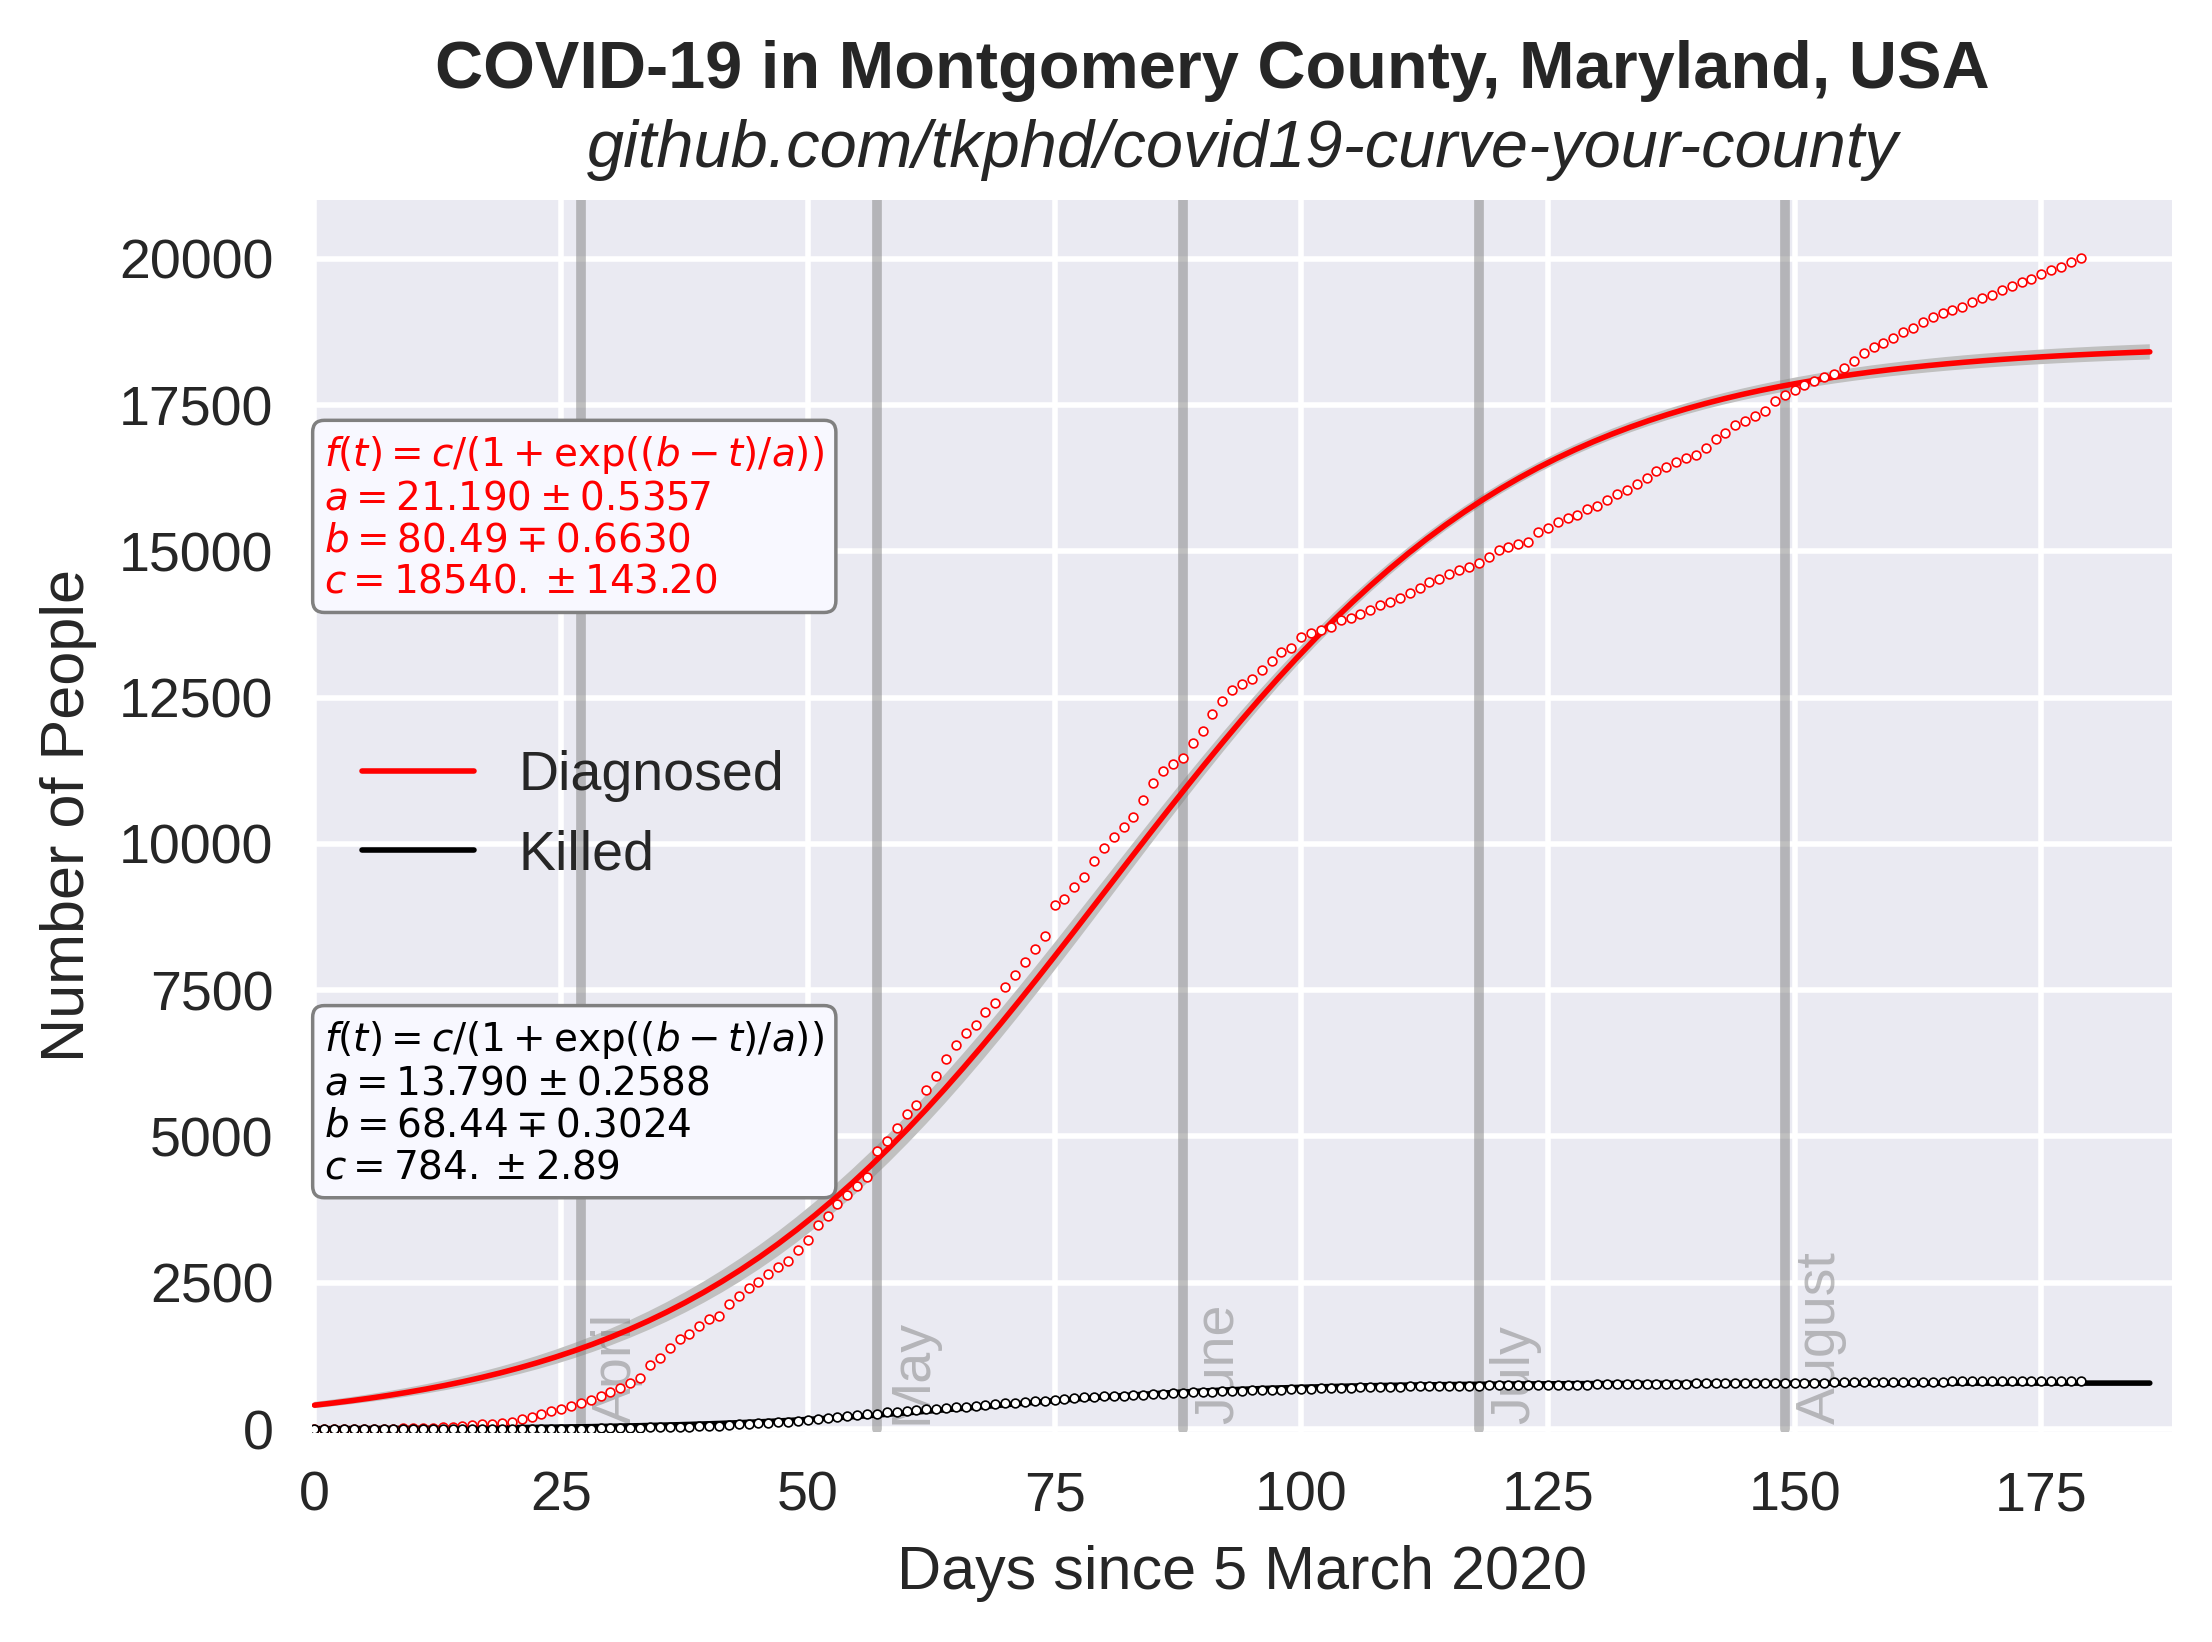
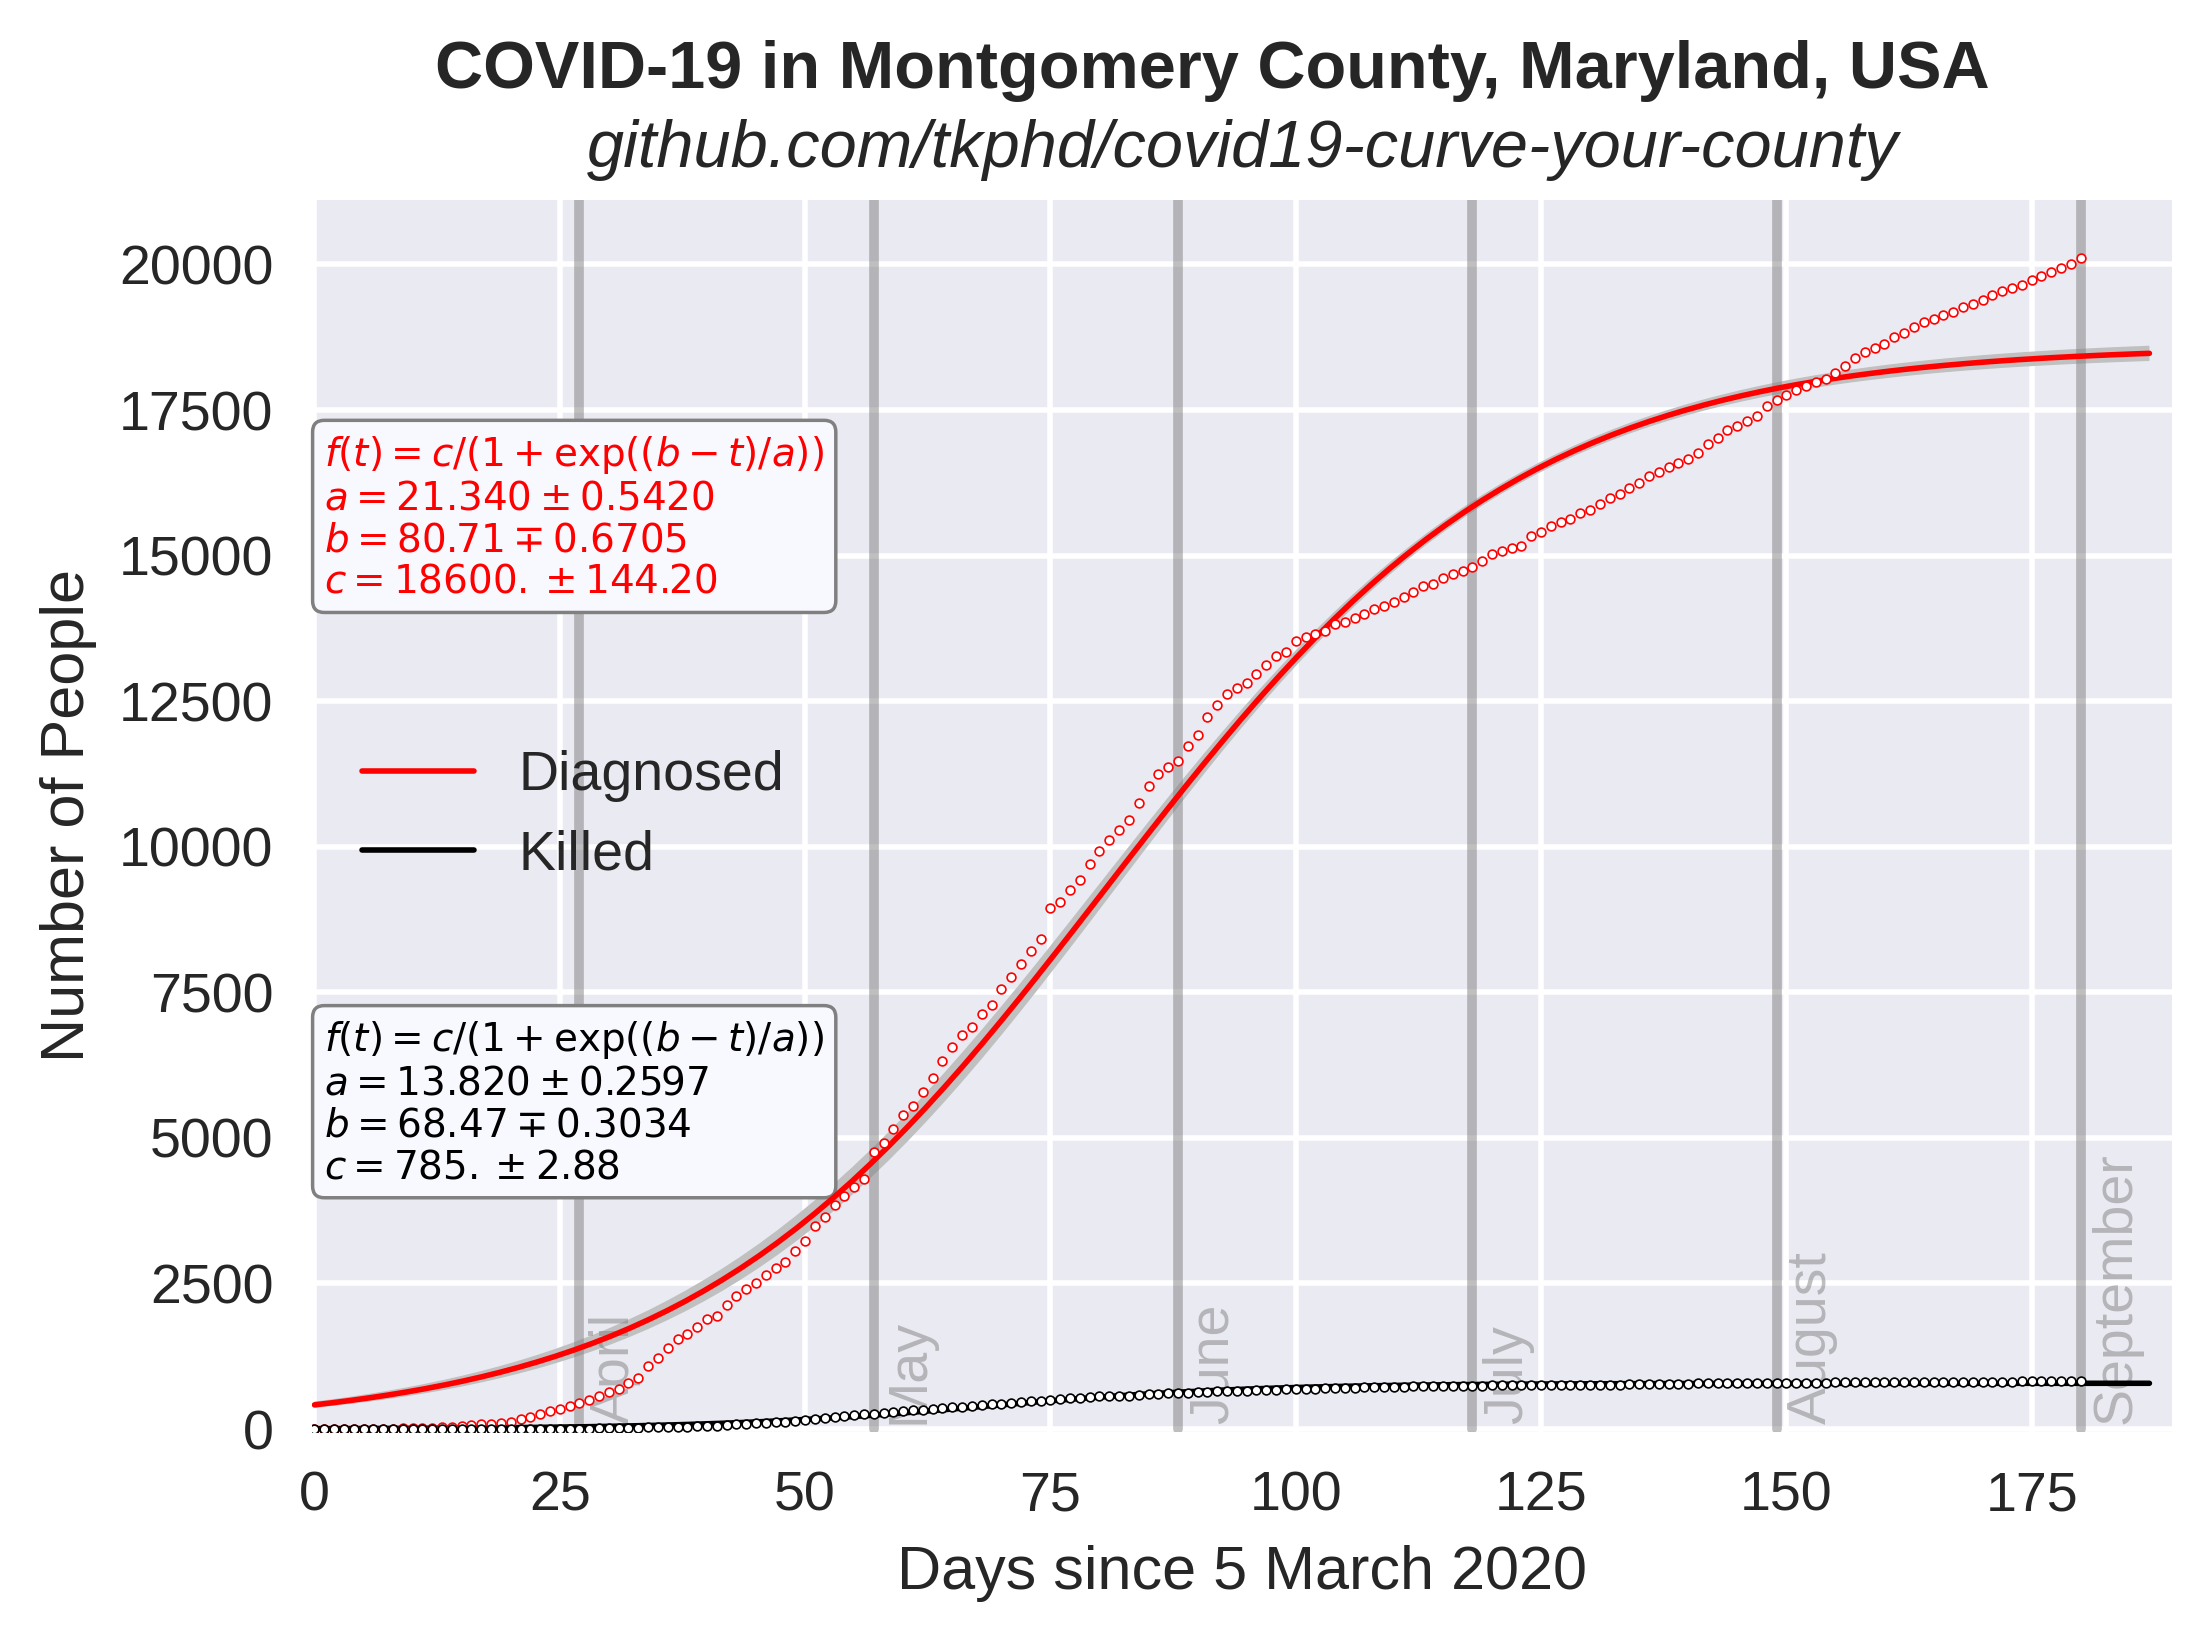
2020-09-01 update

diff --git a/exponential.py b/exponential.py
@@ -105,7 +105,7 @@ months = [
     ["June",      date(2020,  6, 1).toordinal() - start],
     ["July",      date(2020,  7, 1).toordinal() - start],
     ["August",    date(2020,  8, 1).toordinal() - start],
-    # ["September", date(2020,  9, 1).toordinal() - start],
+    ["September", date(2020,  9, 1).toordinal() - start],
     # ["October",   date(2020, 10, 1).toordinal() - start],
     # ["November",  date(2020, 11, 1).toordinal() - start],
     # ["December",  date(2020, 12, 1).toordinal() - start]
